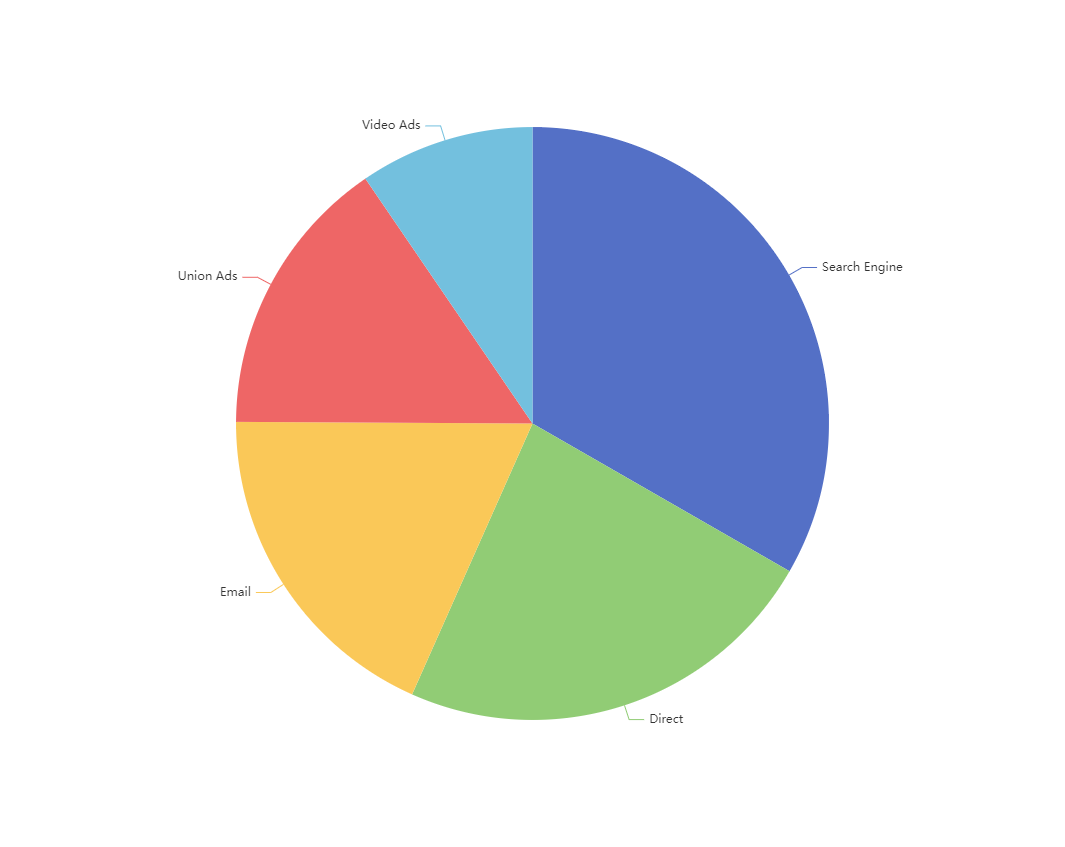
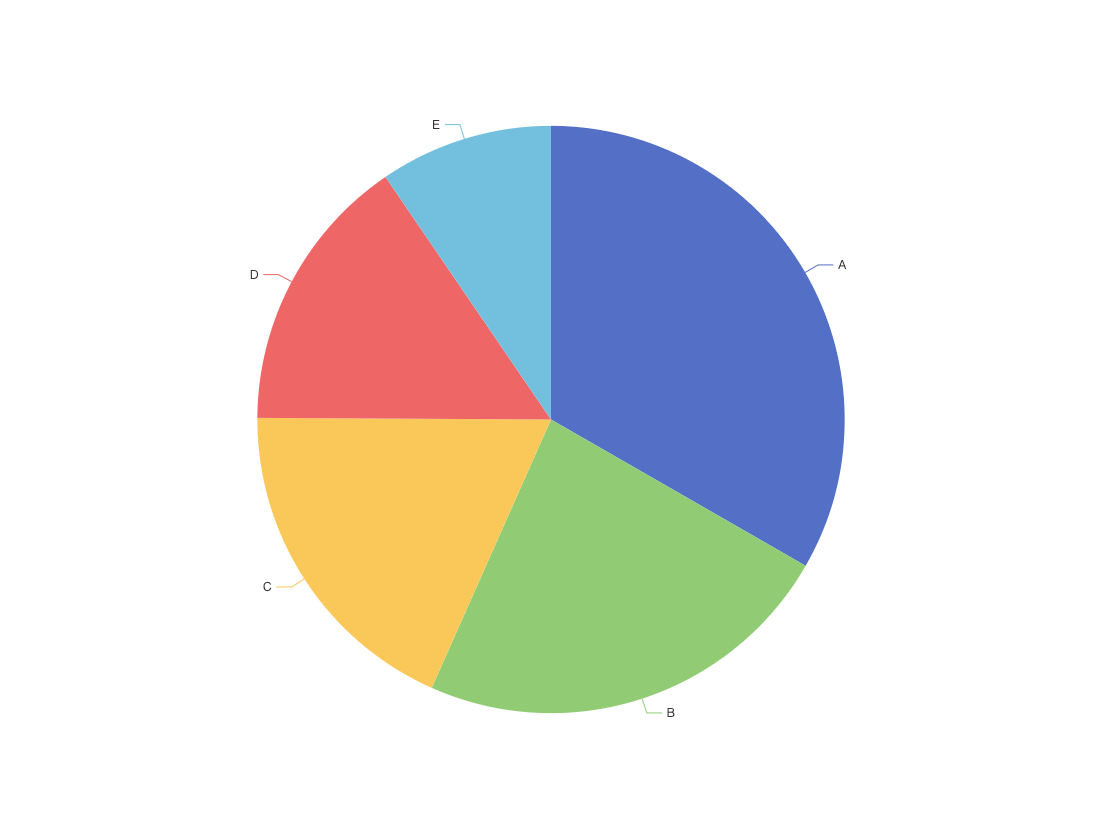
feat(views): 支持玫瑰图

diff --git a/src/components/VisualEditor/config/chart.js b/src/components/VisualEditor/config/chart.js
@@ -53,6 +53,15 @@ const chart = {
     h: 25,
     props: {}
   },
+  'pie-rose': {
+    name: '玫瑰图',
+    type: 'pie-rose',
+    image: require('@/assets/VisualEditor/component/pie-rose.png'),
+    col: 12,
+    w: 25,
+    h: 25,
+    props: {}
+  },
   'scatter': {
     name: '散点图',
     type: 'scatter',
@@ -228,6 +237,26 @@ const option = {
       }
     ]
   },
+  'pie-rose': {
+    tooltip: {
+      trigger: 'item'
+    },
+    series: [
+      {
+        type: 'pie',
+        radius: '70%',
+        center: ['50%', '50%'],
+        data: [
+          { value: 235, name: 'A' },
+          { value: 274, name: 'B' },
+          { value: 310, name: 'C' },
+          { value: 335, name: 'D' },
+          { value: 400, name: 'E' }
+        ],
+        roseType: 'radius'
+      }
+    ]
+  },
   'scatter': {
     xAxis: {},
     yAxis: {},
@@ -393,7 +422,7 @@ const option = {
   }
 }
 
-const gridWhiteList = ['pie', 'pie-ring', 'map']
+const gridWhiteList = ['pie', 'pie-ring', 'pie-rose', 'map']
 Object.keys(option).forEach(key => {
   if (gridWhiteList.includes(key)) return
   option[key].grid = {
@@ -1138,6 +1167,20 @@ const configMap = {
     'chartConfig': {
       name: '配置',
       config: ['basic', 'radius-Array', 'legend', 'title']
+    },
+    'dataSource': {
+      name: '数据',
+      config: []
+    },
+    'interaction': {
+      name: '交互',
+      config: []
+    }
+  },
+  'pie-rose': {
+    'chartConfig': {
+      name: '配置',
+      config: ['basic', 'radius-Number', 'legend', 'title']
     },
     'dataSource': {
       name: '数据',
